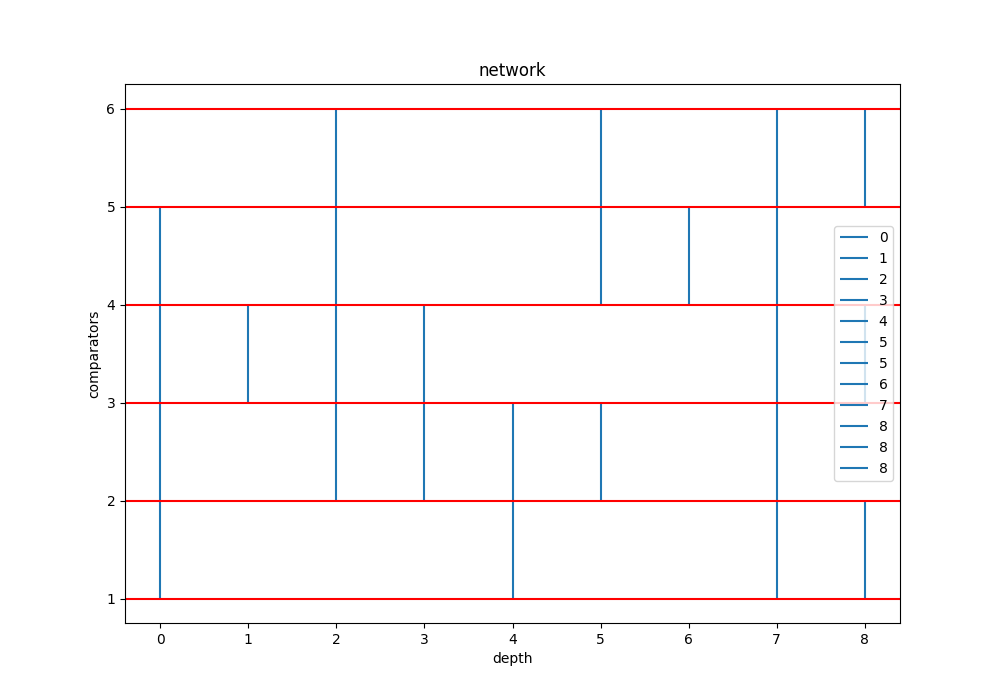
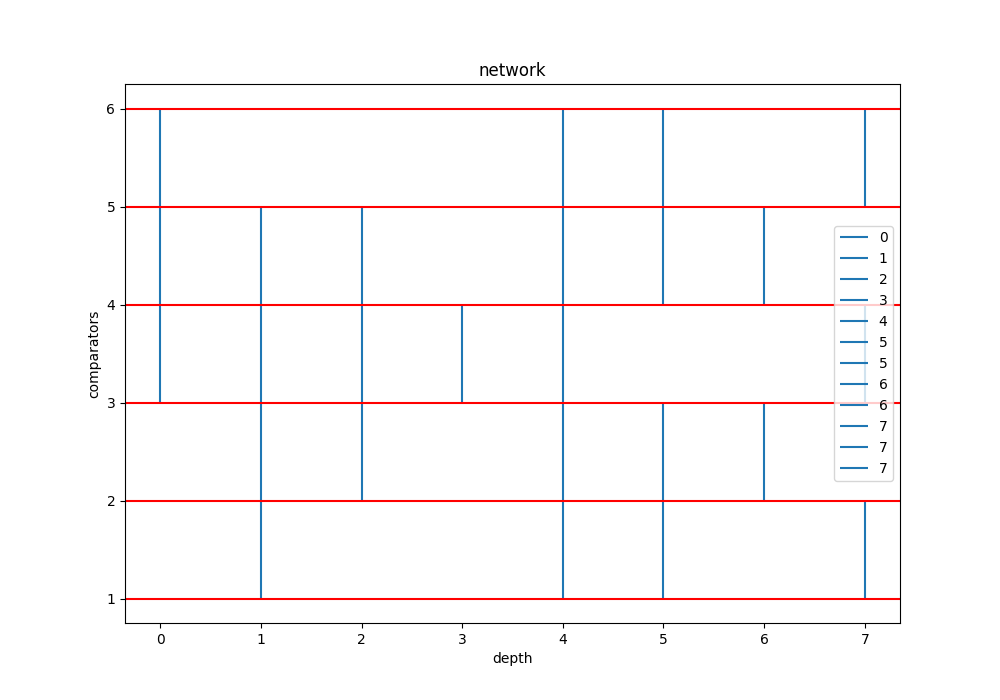
networks now can be displayed

diff --git a/Genetic.py b/Genetic.py
@@ -65,7 +65,7 @@ class C_genetic_algorithem(algortithem):
 
 
     def fitness(self):
-        new_sets = self.population[:20]
+        new_sets = self.selection_methods.method["tour2"](self.population, self.fitness_array)
         for network in self.sorting_networks:
             # todo :T change selection scheme of which ones to check
             # todo:T apply should sort each set and update the sets fitness and the networks fitness
@@ -164,7 +164,7 @@ class C_genetic_algorithem(algortithem):
         mut_type=2
         print("-----pop------")
         self.fitness()
-        self.sort_by_fitness(self.population)
+        self.population=self.sort_by_fitness(self.population)
         self.sorting_networks= self.sort_by_fitness(self.sorting_networks)
         self.mate(i,fitnesstype,mut_type,self.prob_spec,self.population )  # mate the population together
         self.population, self.buffer = self.buffer, self.population  # // swap buffers

diff --git a/main.py b/main.py
@@ -65,9 +65,9 @@ def plot_network(network):
 
     plt.xlabel('depth')
     plt.title("network")
-    plt.legend()
-    # plt.show()
-    plt.savefig(f"outputs\graph.png")
+    # plt.legend()
+    plt.show()
+    #plt.savefig(f"outputs\graph.png")
     plt.close()
 def create_results_file(name):
     file = open(fr"outputs\{name}\script_output.txt", "r")
@@ -146,11 +146,10 @@ def main():
                            1, mutation, 1, max_iter=max_iter)
 
         overall_time = time.perf_counter()
-        _,iter,solution=solution.solve()
+        yo,iter,solution=solution.solve()
         plot_network(solution.get_depth())
         overall_time = time.perf_counter() - overall_time
         border()
-        print(iter)
         print("Overall runtime :", overall_time)
         border()
 
